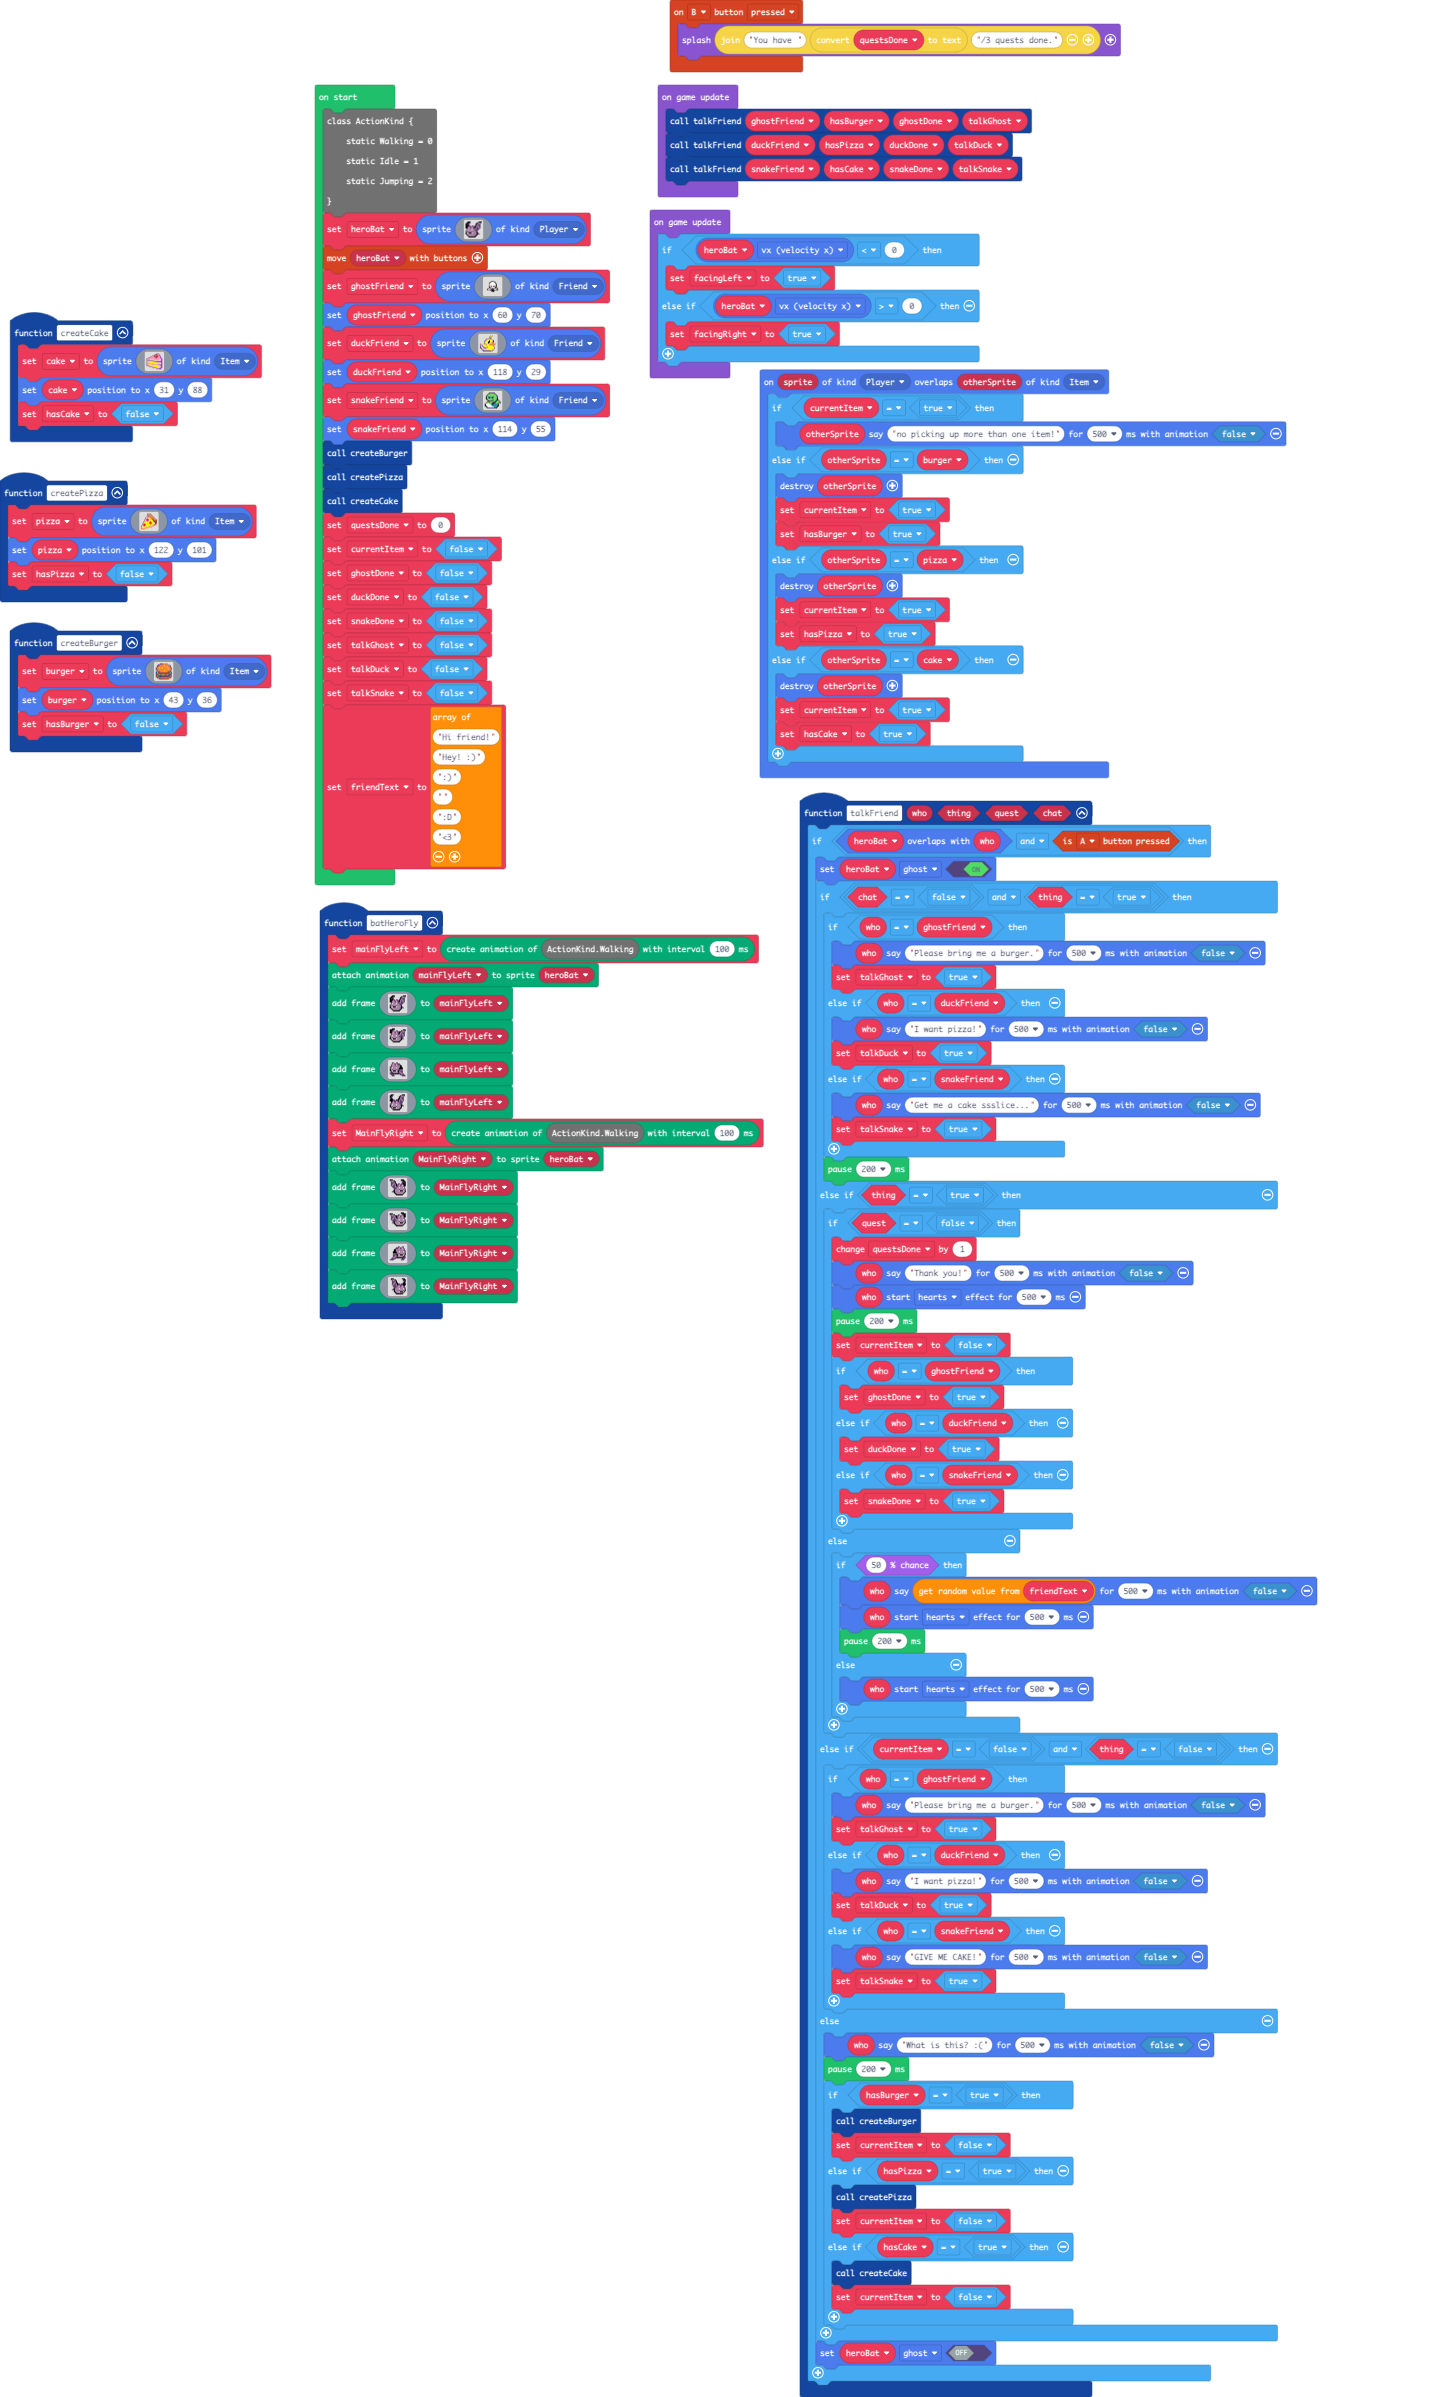
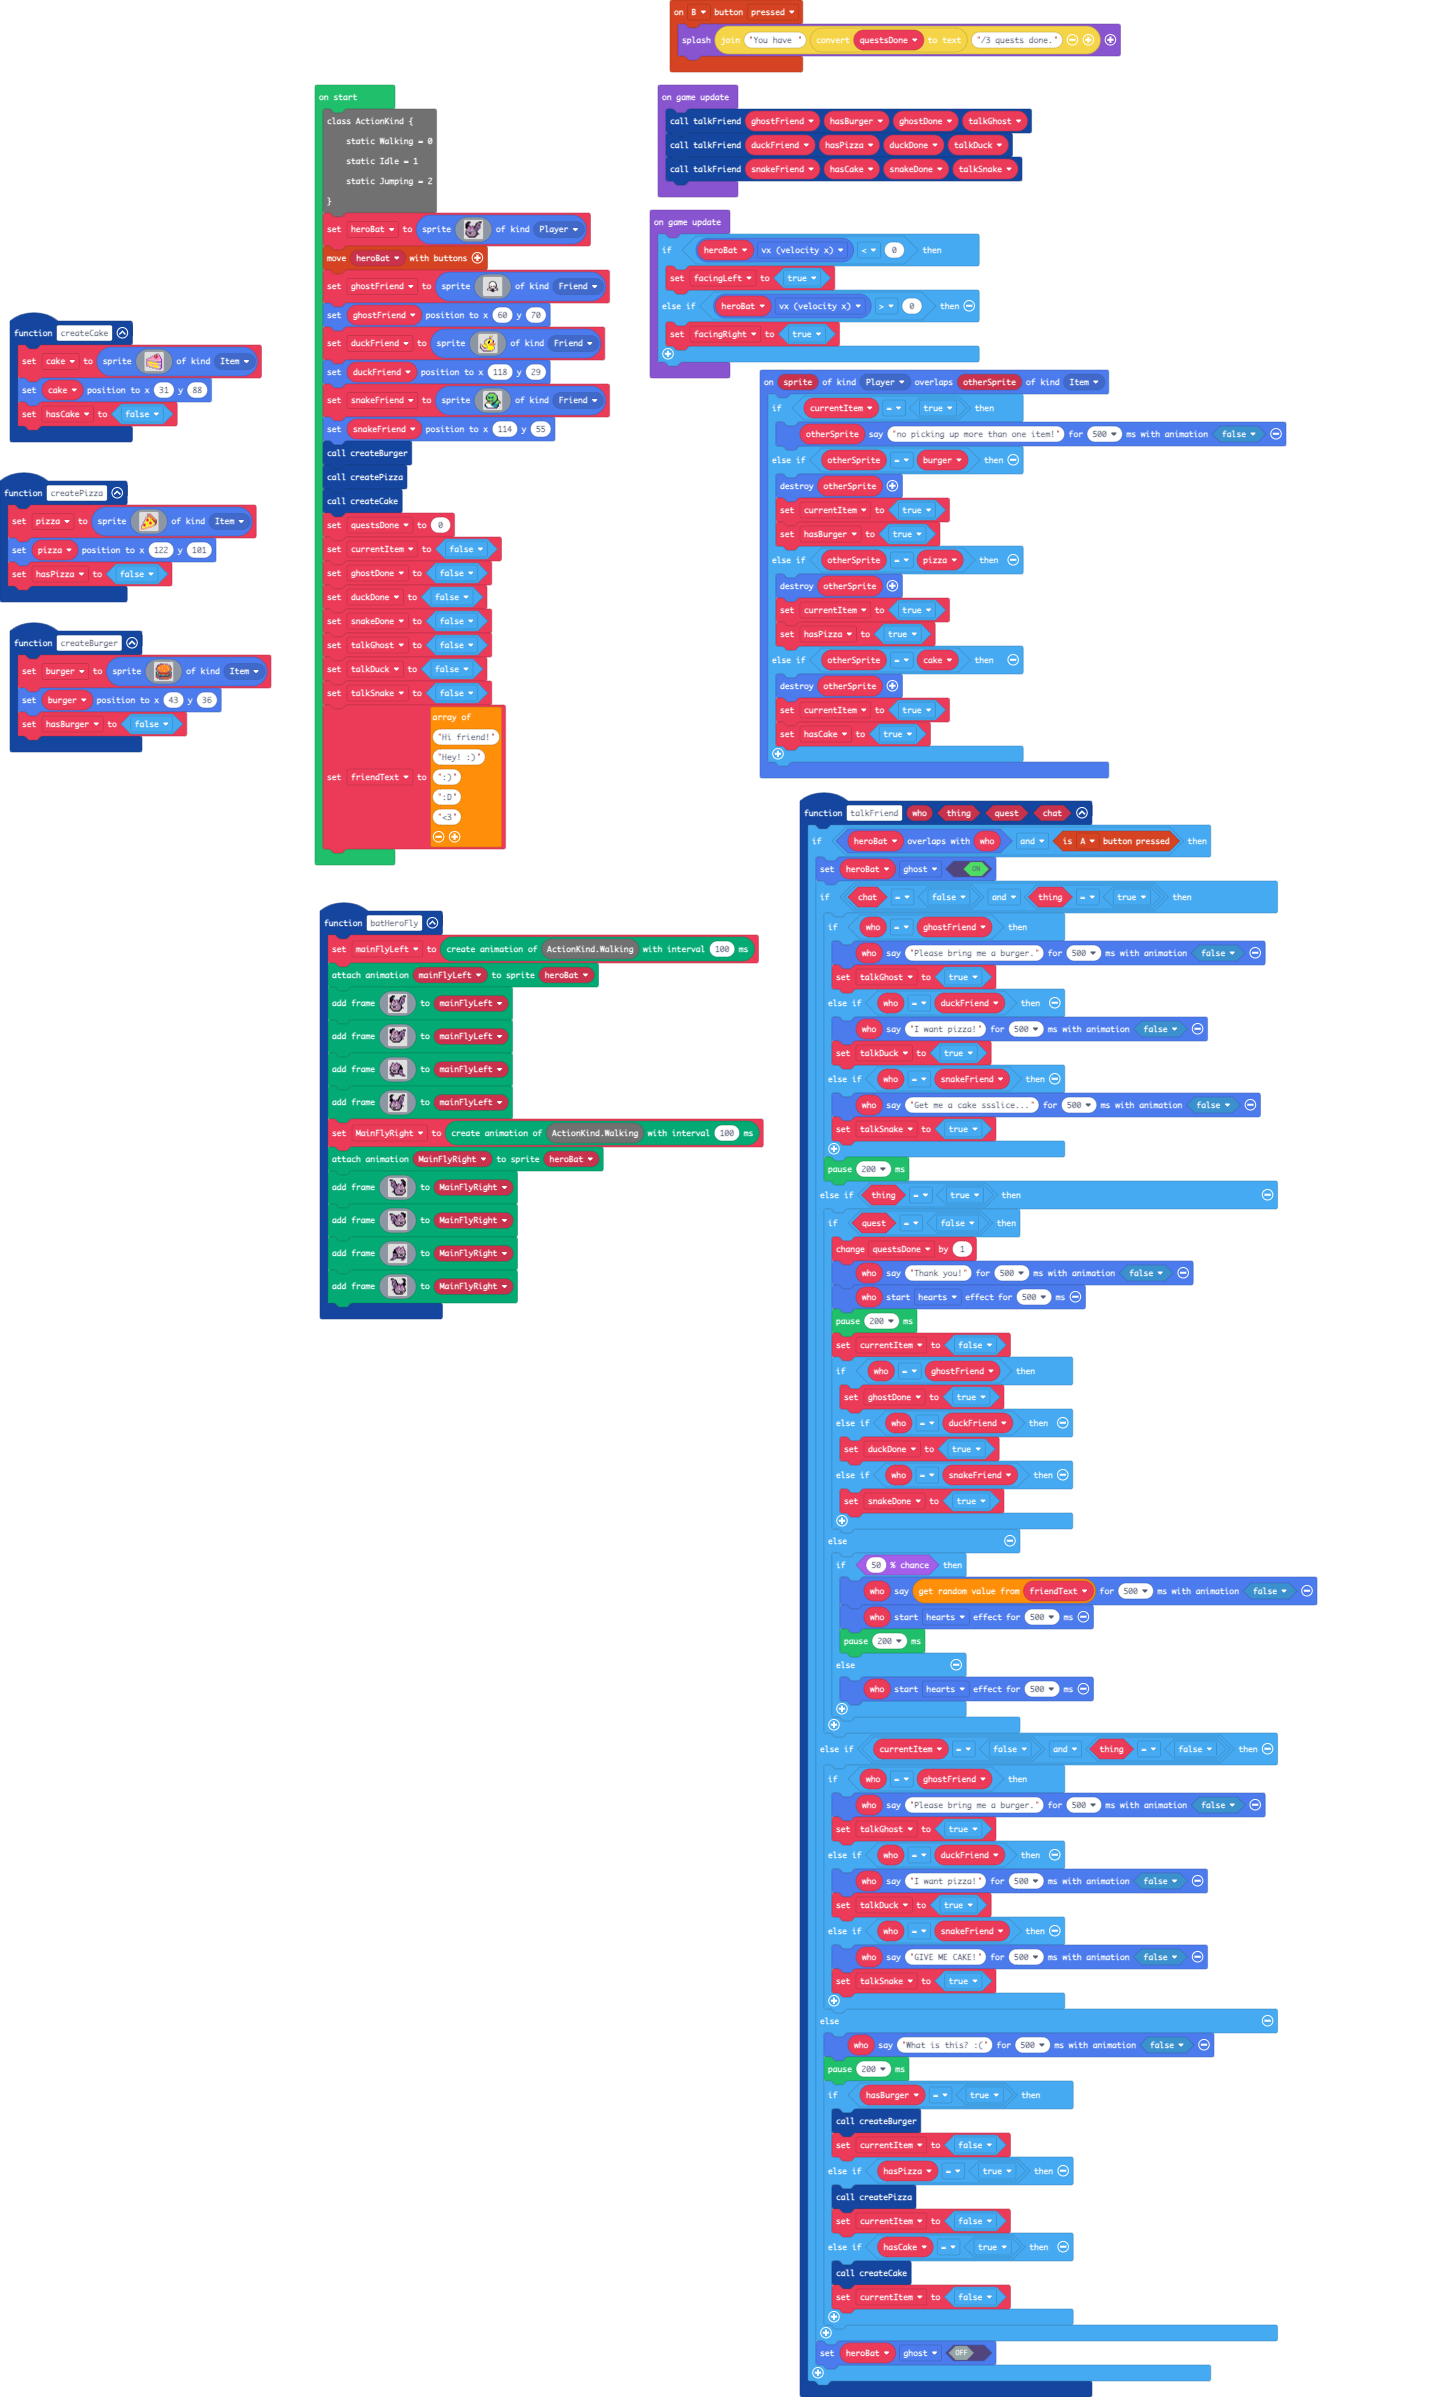
Update main.blocks, main.ts

Changed region(s): [[0.2177, 0.3087, 0.3421, 0.3705], [0.0933, 0.1544, 0.1244, 0.1852], [0.0311, 0.1544, 0.0622, 0.1852]]

diff --git a/main.ts b/main.ts
@@ -431,7 +431,6 @@ friendText = [
 "Hi friend!",
 "Hey! :)",
 ":)",
-"",
 ":D",
 "<3"
 ]
